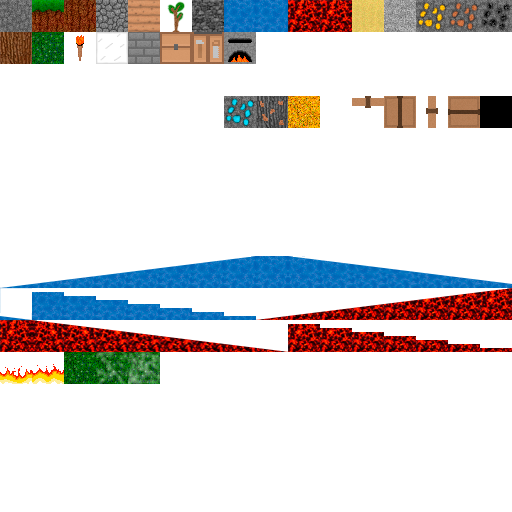
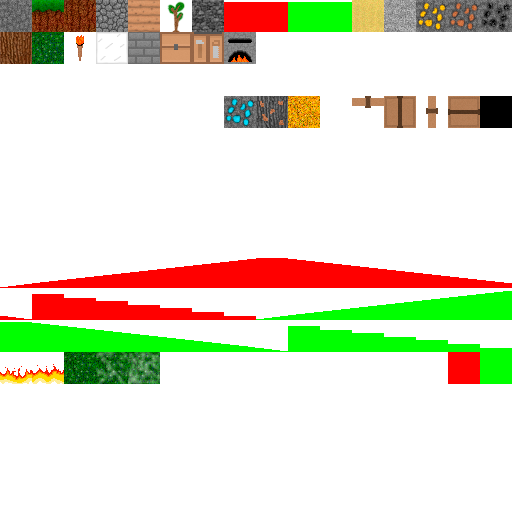
Анимации жидкостей

Changed region(s): [[0.0, 0.5, 1.0, 0.75], [0.4375, 0.0, 0.6875, 0.0625]]

diff --git a/Scripts/engine.js b/Scripts/engine.js
@@ -337,6 +337,35 @@ class Engine {
 				'u_move'
 			]); // получение uniform-переменных из шейдеров
 		
+		// SHADER PROGRAM 6
+		const vertexShader6 = this.createShader(this.gl.VERTEX_SHADER, _vertexShader[6]);
+		const fragmentShader6 = this.createShader(this.gl.FRAGMENT_SHADER, _fragmentShader[6]);
+		this.program[6] = this.createProgram(vertexShader6, fragmentShader6);
+		this.setProgram(6);
+		
+		this.attribute[6] = this.createAttributeLocation(this.program[6], [
+				'a_position',
+				'a_texCoord'
+			]); // получение атрибутов из шейдеров
+		
+		this.uniform[6] = this.createUniformLocation(this.program[6], [
+				'u_projectionMatrix',
+				'u_translate',
+				'u_resolution',
+				'u_sizeBlock',
+				'u_time'
+			]); // получение uniform-переменных из шейдеров
+		
+		// привязка текстур к текстурным блокам
+		const texture0UniformLocation6 = this.gl.getUniformLocation(this.program[6], 'u_texture0');
+		const texture1UniformLocation6 = this.gl.getUniformLocation(this.program[6], 'u_texture1');
+		const texture2UniformLocation6 = this.gl.getUniformLocation(this.program[6], 'u_texture2');
+		const texture3UniformLocation6 = this.gl.getUniformLocation(this.program[6], 'u_texture3');
+		this.gl.uniform1i(texture0UniformLocation6, 0);
+		this.gl.uniform1i(texture1UniformLocation6, 1);
+		this.gl.uniform1i(texture2UniformLocation6, 2);
+		this.gl.uniform1i(texture3UniformLocation6, 3);
+		
 		// используем шейдерную программу
 		this.setProgram(0);
 		
@@ -368,7 +397,7 @@ class Engine {
 		this.weather[3] = 0;
 	}
 	
-	init(images) {
+	init(images, animations) {
 		// создание текстуры
 		this.textures = [];
 		for (let i in images) {
@@ -383,6 +412,25 @@ class Engine {
 			
 			// генерируем текстуру из изображения
 			this.gl.texImage2D(this.gl.TEXTURE_2D, 0, this.gl.RGBA, this.gl.RGBA, this.gl.UNSIGNED_BYTE, images[i]);
+			
+			// генерируем уменьшенные копии
+			this.gl.generateMipmap(this.gl.TEXTURE_2D);
+			
+			this.textures.push(texture);
+		}
+		
+		for (let i in animations) {
+			const texture = this.gl.createTexture();
+			this.gl.bindTexture(this.gl.TEXTURE_2D, texture);
+			
+			// задание параметров текстуры
+			this.gl.texParameteri(this.gl.TEXTURE_2D, this.gl.TEXTURE_WRAP_S, this.gl.REPEAT);
+			this.gl.texParameteri(this.gl.TEXTURE_2D, this.gl.TEXTURE_WRAP_T, this.gl.REPEAT);
+			this.gl.texParameteri(this.gl.TEXTURE_2D, this.gl.TEXTURE_MIN_FILTER, this.gl.NEAREST_MIPMAP_NEAREST);
+			this.gl.texParameteri(this.gl.TEXTURE_2D, this.gl.TEXTURE_MAG_FILTER, this.gl.LINEAR);
+			
+			// генерируем текстуру из изображения
+			this.gl.texImage2D(this.gl.TEXTURE_2D, 0, this.gl.RGBA, this.gl.RGBA, this.gl.UNSIGNED_BYTE, animations[i]);
 			
 			// генерируем уменьшенные копии
 			this.gl.generateMipmap(this.gl.TEXTURE_2D);
@@ -599,6 +647,15 @@ class Engine {
 		this.gl.texParameteri(this.gl.TEXTURE_2D, this.gl.TEXTURE_MIN_FILTER, this.gl.NEAREST);
 	}
 	
+	initAnimations(array) {
+		this.animation = [];
+		for (let i in array) {
+			this.animation[i * 3] = array[i][0];
+			this.animation[i * 3 + 1] = array[i][1];
+			this.animation[i * 3 + 2] = array[i][2];
+		}
+	}
+	
 	getPlayerParts(head, body, legs, item) {
 		// используем шейдерную программу
 		this.setProgram(3);
@@ -677,9 +734,6 @@ class Engine {
 		const c = `${x}x${y}`;
 		const count = blocksOfChunk.length;
 		
-		const liquid = [8, 9, 129, 130, 131, 132, 133, 134, 135, 136, 137, 138, 139, 140, 141, 142, 143, 144, 145, 146,
-			147, 148, 149, 150, 151, 152];
-		
 		// буфер кадров
 		if (this.arrayOfChunks[c] === undefined) {
 			if (this.unusedArrayOfChunks.length === 0) {
@@ -751,8 +805,8 @@ class Engine {
 		const w = 1 / this.widthChunk;
 		const h = 1 / this.heightChunk;
 		
-		const liquidArrayOfBuffer = [];
-		const liquidTextureOfBuffer = [];
+		const animateArrayOfBuffer = [];
+		const animateTextureOfBuffer = [];
 		let lv = 0;
 		
 		// отрисовка слоёв
@@ -767,16 +821,19 @@ class Engine {
 			
 			let v = 0;
 			
-			for (let x = 0; x < this.widthChunk; x++) {
-				const xh = x * w;
-				for (let y = 0; y < this.heightChunk; y++) {
-					const yh = y * h;
-					const id = blocksOfChunk[i][y][x];
-					const aoo = this.arrayOfObjects[id];
+			for (let xb = 0; xb < this.widthChunk; xb++) {
+				const xh = xb * w;
+				for (let yb = 0; yb < this.heightChunk; yb++) {
+					const yh = yb * h;
+					let id = blocksOfChunk[i][yb][xb];
+					let aoo = this.arrayOfObjects[id];
 					if (aoo != undefined) {
-						const a0 = aoo.a[0], a1 = aoo.a[1], b0 = aoo.b[0], b1 = aoo.b[1];
-						if (liquid.indexOf(id) != -1) {
-							liquidArrayOfBuffer.push(
+						if (this.animation[0](id)) {
+							if (this.animation[1](blocksOfChunk[i][yb + 1][xb])) {
+								aoo = this.arrayOfObjects[this.animation[2]];
+							}
+							
+							animateArrayOfBuffer.push(
 								xh, yh,
 								xh + w, yh,
 								xh, yh + h,
@@ -784,7 +841,30 @@ class Engine {
 								xh + w, yh,
 								xh + w, yh + h);
 							
-							liquidTextureOfBuffer.push(
+							const a0 = aoo.a[0], a1 = aoo.a[1], b0 = aoo.b[0], b1 = aoo.b[1];
+							animateTextureOfBuffer.push(
+								a0, b1,
+								b0, b1,
+								a0, a1,
+								a0, a1,
+								b0, b1,
+								b0, a1);
+							lv += 6;
+						} else if (this.animation[3](id)) {
+							if (this.animation[4](blocksOfChunk[i][yb + 1][xb])) {
+								aoo = this.arrayOfObjects[this.animation[5]];
+							}
+							
+							animateArrayOfBuffer.push(
+								xh, yh,
+								xh + w, yh,
+								xh, yh + h,
+								xh, yh + h,
+								xh + w, yh,
+								xh + w, yh + h);
+							
+							const a0 = aoo.a[0], a1 = aoo.a[1], b0 = aoo.b[0], b1 = aoo.b[1];
+							animateTextureOfBuffer.push(
 								a0, b1,
 								b0, b1,
 								a0, a1,
@@ -801,6 +881,7 @@ class Engine {
 								xh + w, yh,
 								xh + w, yh + h);
 							
+							const a0 = aoo.a[0], a1 = aoo.a[1], b0 = aoo.b[0], b1 = aoo.b[1];
 							textureOfBuffer.push(
 								a0, b1,
 								b0, b1,
@@ -832,10 +913,10 @@ class Engine {
 		
 		if (lv > 0) {
 			this.gl.bindBuffer(this.gl.ARRAY_BUFFER, this.arrayOfChunks[c].blockBuffer[count]);
-			this.gl.bufferData(this.gl.ARRAY_BUFFER, new Float32Array(liquidArrayOfBuffer), this.gl.DYNAMIC_DRAW);
+			this.gl.bufferData(this.gl.ARRAY_BUFFER, new Float32Array(animateArrayOfBuffer), this.gl.DYNAMIC_DRAW);
 			this.gl.vertexAttribPointer(this.attribute[3].a_position, 2, this.gl.FLOAT, false, 0, 0);
 			this.gl.bindBuffer(this.gl.ARRAY_BUFFER, this.arrayOfChunks[c].texBuffer[count]);
-			this.gl.bufferData(this.gl.ARRAY_BUFFER, new Float32Array(liquidTextureOfBuffer), this.gl.DYNAMIC_DRAW);
+			this.gl.bufferData(this.gl.ARRAY_BUFFER, new Float32Array(animateTextureOfBuffer), this.gl.DYNAMIC_DRAW);
 			this.gl.vertexAttribPointer(this.attribute[3].a_texCoord, 2, this.gl.FLOAT, false, 0, 0);
 			this.gl.drawArrays(this.gl.TRIANGLES, 0, lv);
 		}
@@ -845,6 +926,7 @@ class Engine {
 			this.gl.generateMipmap(this.gl.TEXTURE_2D);
 			this.gl.texParameteri(this.gl.TEXTURE_2D, this.gl.TEXTURE_MIN_FILTER, this.gl.NEAREST_MIPMAP_LINEAR);
 		}
+		
 	}
 	
 	deleteChunk(x, y) {
@@ -932,7 +1014,7 @@ class Engine {
 		// яркость 2 слоя
 		let ls;
 		if (slicePlayer === 1) {
-			ls = 0.65; // если игрок на 1 слое
+			ls = 0.63; // если игрок на 1 слое
 		} else {
 			ls = 0.75; // если игрок на 2 слое
 		}
@@ -954,9 +1036,10 @@ class Engine {
 				this.gl.drawArrays(this.gl.TRIANGLES, 18, 6);
 			}
 		}
-		this.setProgram(0);
 		
-		if (slicePlayer === 2) {			
+		if (slicePlayer === 2) {
+			this.setProgram(0);
+			
 			// отрисовка игрока
 			this.gl.bindTexture(this.gl.TEXTURE_2D, this.texturePlayer);
 			this.gl.uniform1f(this.uniform[0].u_light[0], Math.max(lightOfPlayer, dynamicLight[1]));
@@ -1014,9 +1097,10 @@ class Engine {
 				}
 			}
 		}
-		this.setProgram(0);
 		
 		if (slicePlayer === 1) {
+			this.setProgram(0);
+			
 			// отрисовка игрока
 			this.gl.bindTexture(this.gl.TEXTURE_2D, this.texturePlayer);
 			this.gl.uniform1f(this.uniform[0].u_light[0], Math.max(lightOfPlayer, dynamicLight[1]));
@@ -1028,20 +1112,31 @@ class Engine {
 			}
 		}
 		
-		this.setProgram(2);
+		this.setProgram(6);
 			
-		this.gl.uniform1f(this.uniform[2].u_light[0], 1);
+		this.setUniform1f(this.uniform[6].u_sizeBlock, this.size);
+			this.setUniformMatrix4fv(this.uniform[6].u_projectionMatrix, false, [
+				2.0 / (right - left), 0.0, 0.0, 0.0,
+				0.0, 2.0 / (top - bottom), 0.0, 0.0,
+				0.0, 0.0, -2.0 / (far - near), 0.0,
+				(right + left) / (left - right), (top + bottom) / (bottom - top), (far + near) / (near - far), 1.0]);
+			this.setUniform1f(this.uniform[6].u_resolution, this.gl.canvas.height);
+		this.gl.uniform1f(this.uniform[6].u_time[0], Math.sin(time / 640));
 			
-		// отрисовка 1 слоя без полупрозрачного круга
+		// отрисовка анимаций 1 слоя без полупрозрачного круга
 		for (let c in this.arrayOfChunks) {
 			if (this.arrayOfChunks[c] !== undefined) {
 				const xc = this.widthChunk * this.arrayOfChunks[c].x * ch;
 				const yc = this.heightChunk * this.arrayOfChunks[c].y * ch;
+				this.gl.activeTexture(this.gl.TEXTURE3);
+				this.gl.bindTexture(this.gl.TEXTURE_2D, this.textures[5]);
+				this.gl.activeTexture(this.gl.TEXTURE2);
+				this.gl.bindTexture(this.gl.TEXTURE_2D, this.textures[4]);
 				this.gl.activeTexture(this.gl.TEXTURE1);
 				this.gl.bindTexture(this.gl.TEXTURE_2D, this.arrayOfChunks[c].light);
 				this.gl.activeTexture(this.gl.TEXTURE0);
 				this.gl.bindTexture(this.gl.TEXTURE_2D, this.arrayOfChunks[c].tex[3]);
-				this.gl.uniform3fv(this.uniform[2].u_translate[0], [xc, yc, -2]);
+				this.gl.uniform2fv(this.uniform[6].u_translate[0], [xc, yc]);
 				this.gl.drawArrays(this.gl.TRIANGLES, 18, 6);
 			}
 		}

diff --git a/Scripts/shaders.js b/Scripts/shaders.js
@@ -57,7 +57,7 @@ _fragmentShader[0] = `
 		gl_FragColor = vec4(tex.rgb * u_light, tex.a);
 	}`;
 
-// шейдеры для 1 слоя
+// шейдеры для 1 слоя с полупрозрачным кругом
 _vertexShader[1] = `
 	attribute vec2 a_position;
 	attribute vec2 a_texCoord;
@@ -104,7 +104,7 @@ _fragmentShader[1] = `
 		gl_FragColor = color;
 	}`;
 
-// шейдеры для 2 и 3 слоя
+// шейдеры для 1 (без полупрозрачного круга), 2 и 3 слоёв
 _vertexShader[2] = `
 	attribute vec2 a_position;
 	attribute vec2 a_texCoord;
@@ -239,4 +239,49 @@ _fragmentShader[5] = `
 	
 	void main() {
 		gl_FragColor = vec4(0.0, 0.0, 1.0, 0.9);
+	}`;
+
+// анимация жидкости на 1 слое без полупрозрачного круга
+_vertexShader[6] = `
+	attribute vec2 a_position;
+	attribute vec2 a_texCoord;
+
+	uniform vec2 u_translate;
+	uniform mat4 u_projectionMatrix;
+	uniform float u_resolution;
+
+	varying vec2 v_texCoord;
+	varying vec2 v_texAnimation;
+
+	void main() {
+		v_texCoord = a_texCoord;
+		vec4 pos = vec4(a_position / u_resolution + u_translate, -1.0, 1.0);
+		gl_Position = u_projectionMatrix * pos;
+	}`;
+
+_fragmentShader[6] = `
+	precision mediump float;
+
+	uniform sampler2D u_texture0;
+	uniform sampler2D u_texture1;
+	uniform sampler2D u_texture2;
+	uniform sampler2D u_texture3;
+	uniform float u_sizeBlock;
+	uniform float u_time;
+
+	varying vec2 v_texCoord;
+	varying vec2 v_texAnimation;
+
+	void main() {
+		vec4 tex = texture2D(u_texture0, v_texCoord);
+		if (tex.a > 0.95) {
+			vec3 lightTex = (texture2D(u_texture1, (v_texCoord + 1.0 / u_sizeBlock) * 0.5)).xyz;
+			vec4 color = vec4(lightTex, 1.0);
+			if (tex.r > 0.95) {
+				color *= texture2D(u_texture2, v_texCoord * 16.0 + vec2(u_time, 0.0));
+			} else if (tex.g > 0.95) {
+				color *= texture2D(u_texture3, v_texCoord * 16.0 + vec2(u_time, 0.0));
+			}
+			gl_FragColor = color;
+		}
 	}`;

diff --git a/Scripts/preprocessing.js b/Scripts/preprocessing.js
@@ -34,10 +34,12 @@ const _UI = loadImage('Images/UI.png'),  // Загрузка текстур
 	_Font = loadImage('Images/font.png'),
 	image = loadImage('Images/blocks.png'),
 	background = loadImage('Images/background.png'),
-	playerImage = loadImage('Images/player.png');
+	playerImage = loadImage('Images/player.png'),
+	animationWater = loadImage('Images/animations/water.png'),
+	animationLava = loadImage('Images/animations/lava.png');
 
 const preprocessing = () => {
-	render.init([image, background, playerImage, _Items]);
+	render.init([image, background, playerImage, _Items], [animationWater, animationLava]);
 	render.settings(blockSize, chunkWidth, chunkHeight, [1, 0.65, 0.4]);
 	initRain();
 	_textureUI = render.createTexture(_UI, _UI.width, _UI.height);
@@ -113,6 +115,28 @@ const preprocessing = () => {
 		}
 		render.createAnimations(playerResolutionX, playerResolutionY, playerAnims);
 	}
+	
+	{ // инициализация анимаций
+		// вода
+		const waterTex = (id) => {
+			return id === 8 || id === 9 || (id >= 129 && id <= 152);
+		}
+		
+		const waterID = (id) => {
+			return id === 8 || id === 9 || (id >= 9000 && id <= 9023);
+		}
+		
+		// лава
+		const lavaTex = (id) => {
+			return id === 10 || id === 11 || (id >= 153 && id <= 176);
+		}
+		
+		const lavaID = (id) => {
+			return id === 10 || id === 11 || (id >= 9024 && id <= 9047);
+		}
+		
+		render.initAnimations([[waterTex, waterID, 191], [lavaTex, lavaID, 192]]);
+	}
 
 	let OnScreen = {};
 	let arrOfChunks = {};
@@ -138,7 +162,7 @@ const preprocessing = () => {
 				chunk: [], x: xLocate, y: yLocate
 			};
 
-			for (let j = startY; j < stopY; j++) {
+			for (let j = startY; j <= stopY; j++) {
 				layoutChunk.chunk[j - startY] = [];
 				for (let i = startX; i < stopX; i++) {
 					if (i >= 0 && j >= 0 && i < gameArea.width && j < gameArea.height) {
